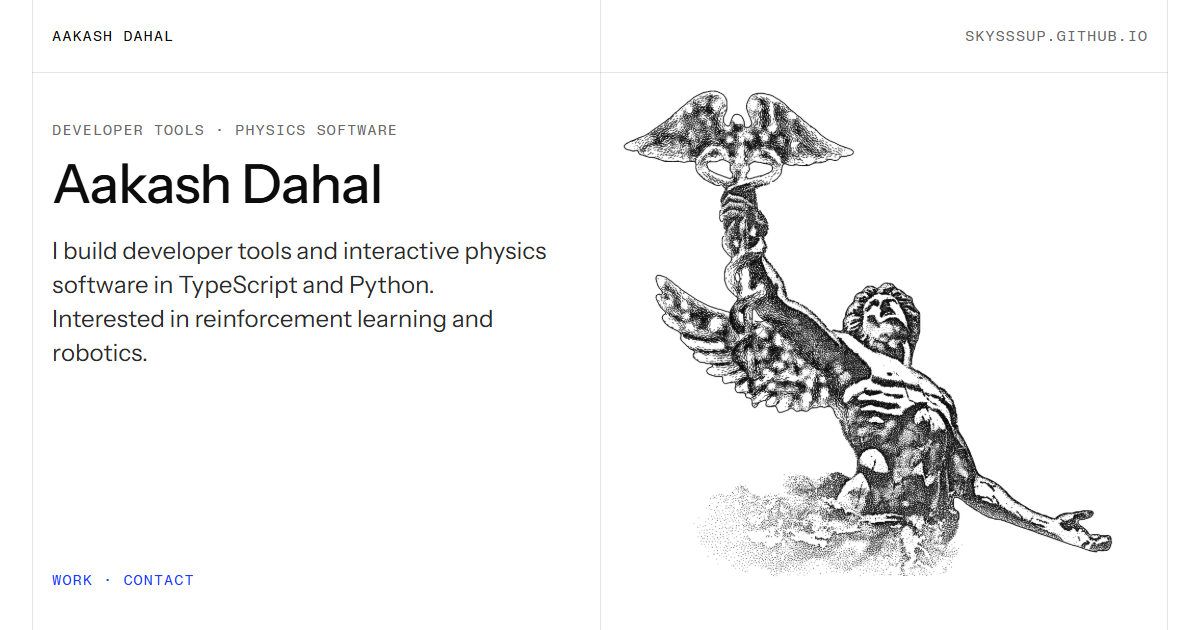
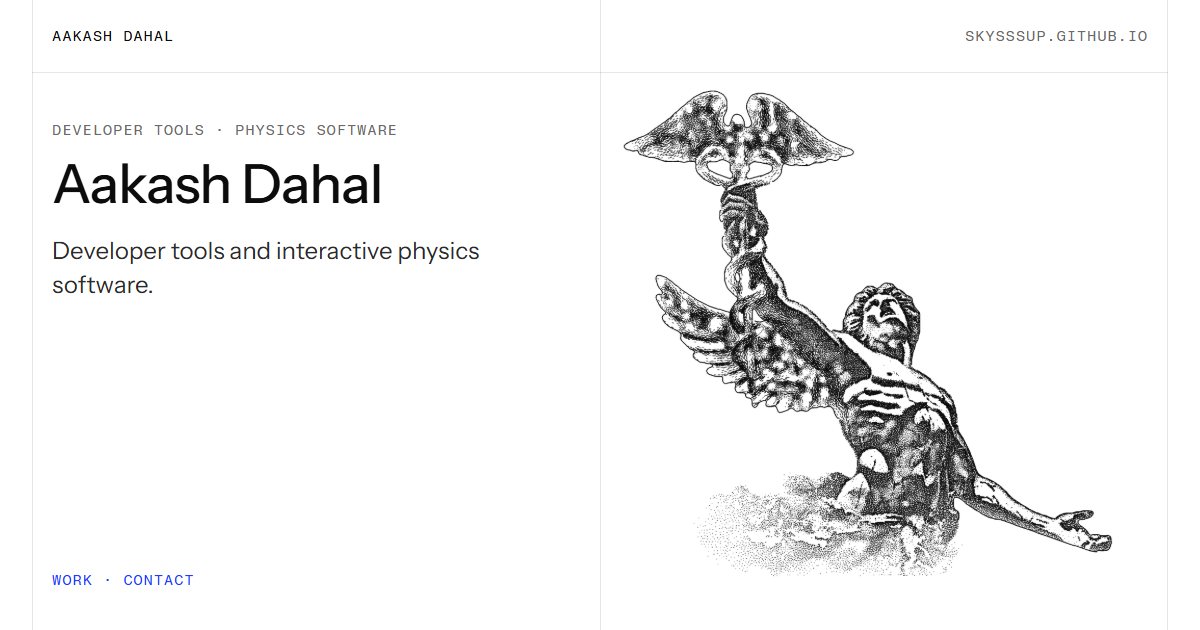
Remove outdated homepage bio

Changed region(s): [[0.0308, 0.3921, 0.4625, 0.573]]

diff --git a/index.html b/index.html
@@ -4,12 +4,12 @@
 <meta charset="utf-8">
 <meta name="viewport" content="width=device-width, initial-scale=1">
 <title>Aakash Dahal</title>
-<meta name="description" content="I build developer tools and interactive physics software in TypeScript and Python. Interested in reinforcement learning and robotics.">
+<meta name="description" content="Developer tools and interactive physics software.">
 <link rel="canonical" href="https://skysssup.github.io/">
 <meta property="og:type" content="website">
 <meta property="og:site_name" content="Aakash Dahal">
 <meta property="og:title" content="Aakash Dahal">
-<meta property="og:description" content="I build developer tools and interactive physics software in TypeScript and Python. Interested in reinforcement learning and robotics.">
+<meta property="og:description" content="Developer tools and interactive physics software.">
 <meta property="og:url" content="https://skysssup.github.io/">
 <meta property="og:image" content="https://skysssup.github.io/assets/og/home.png">
 <meta property="og:image:width" content="1200">
@@ -27,7 +27,7 @@
 <link rel="preload" href="/assets/fonts/fragment-mono-400.woff2" as="font" type="font/woff2" crossorigin>
 <script>(function(r){try{var t=localStorage.getItem("sky-theme");if(t==="dark"||t==="light")r.setAttribute("data-theme",t);var g=sessionStorage.getItem("sky-gear");if(g==="two"||g==="blue")r.setAttribute("data-gear",g);if(sessionStorage.getItem("sky-grid")==="on")r.setAttribute("data-grid","on");var m=localStorage.getItem("sky-motion");if(m==="reduced"||(m!=="full"&&matchMedia("(prefers-reduced-motion: reduce)").matches))r.setAttribute("data-motion","reduced")}catch(e){}r.classList.add("js")})(document.documentElement);(function(r,d){var t=r.getAttribute("data-theme"),g=r.getAttribute("data-gear"),dark=g==="two"||g==="blue"||t==="dark"||(t!=="light"&&matchMedia("(prefers-color-scheme: dark)").matches),u=dark?"/assets/hero/preview-dark.webp":"/assets/hero/preview.webp",l=d.createElement("link");l.rel="preload";l.as="image";l.fetchPriority="high";l.crossOrigin="anonymous";l.href=u;d.head.appendChild(l)})(document.documentElement,document);</script>
 <link rel="stylesheet" href="/css/site.css">
-<script type="application/ld+json">{"@context":"https://schema.org","@type":"Person","name":"Aakash Dahal","url":"https://skysssup.github.io/","email":"mailto:hello@aakashdahal.fun","sameAs":["https://github.com/skysssup","https://x.com/skysssup"],"description":"I build developer tools and interactive physics software in TypeScript and Python. Interested in reinforcement learning and robotics."}</script>
+<script type="application/ld+json">{"@context":"https://schema.org","@type":"Person","name":"Aakash Dahal","url":"https://skysssup.github.io/","email":"mailto:hello@aakashdahal.fun","sameAs":["https://github.com/skysssup","https://x.com/skysssup"],"description":"Developer tools and interactive physics software."}</script>
 </head>
 <body class="page-home">
 <a class="skip" href="#main">Skip to content</a>
